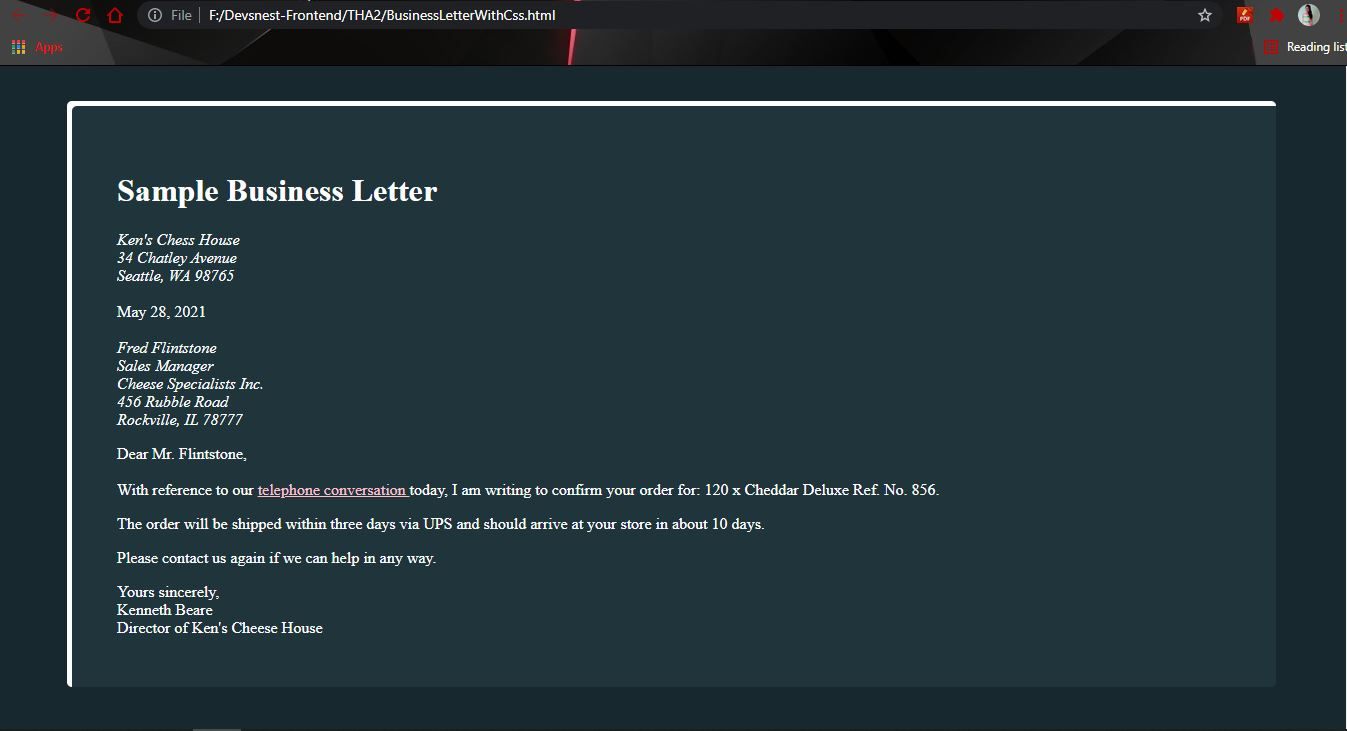
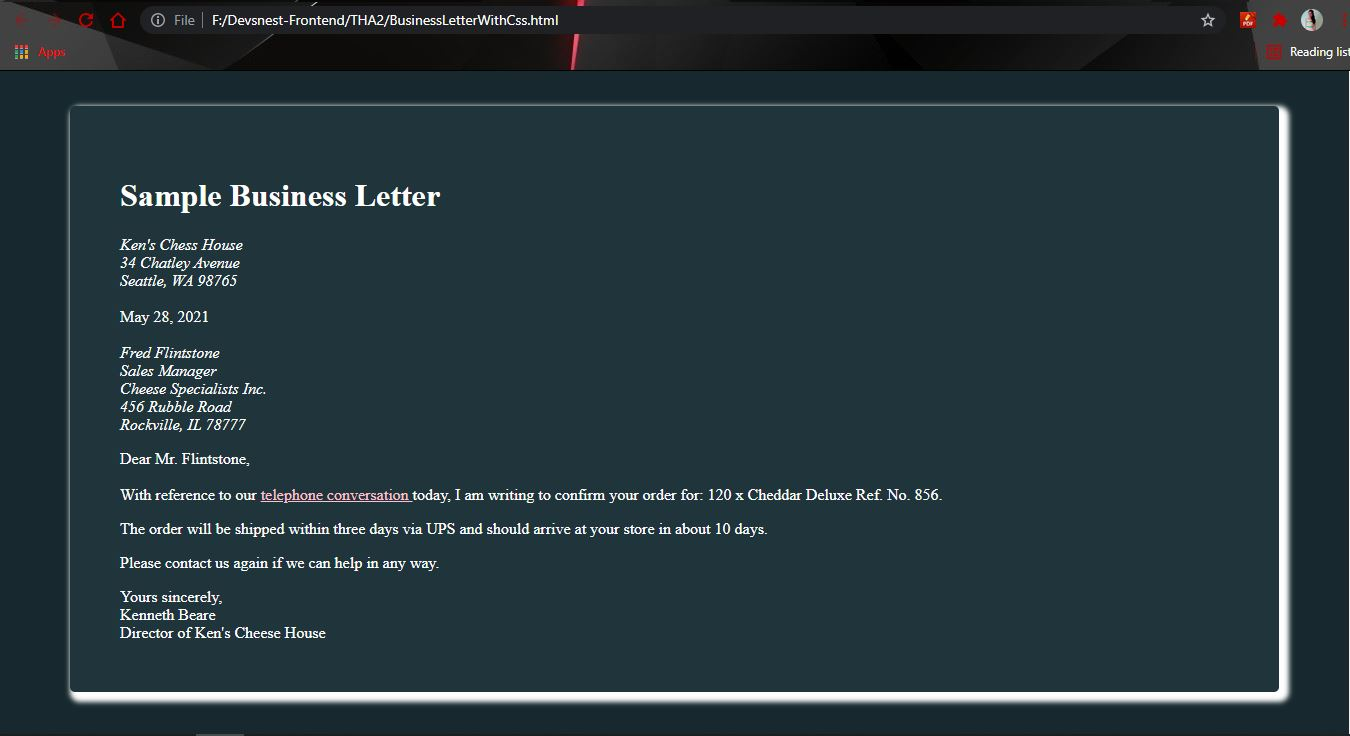
Commiting THA3

Changed region(s): [[0.0, 0.0, 1.0, 0.9631], [0.0, 0.0, 0.4365, 0.0903], [0.6236, 0.0, 0.7483, 0.0602]]

diff --git a/THA3/ResumeTemplate.html b/THA3/ResumeTemplate.html
@@ -1,0 +1,134 @@
+<!DOCTYPE html>
+<html lang="en">
+  <head>
+    <meta charset="UTF-8" />
+    <meta http-equiv="X-UA-Compatible" content="IE=edge" />
+    <meta name="viewport" content="width=device-width, initial-scale=1.0" />
+    <link rel="stylesheet" href="./style.css" />
+    <link href="https://fonts.googleapis.com/css2?family=IBM+Plex+Sans:wght@300&display=swap" rel="stylesheet"/>
+    <title>Resume</title>
+  </head>
+  <body>
+
+    <div class="resume">
+      <div class="resume-body">
+
+        <header>
+          <h1>PhantomOz</h1>
+          <p>SDE</p>
+        </header>
+
+        <div class="resume-detail">
+          <div class="left">
+            <div class="personal">
+              <h2>Personal Profile</h2>
+
+              <p>
+                Hi! I'm a high school senior with a knack for verbal
+                communication and public speaking.I'm looking for an internship
+                in the digital marketing industry.
+              </p>
+
+            </div>
+
+            <div class="achievements">
+
+              <h2>Honors & Achievements</h2>
+              <ul>
+                <li><b>&#8226; &nbsp;</b> Beechtown Honor Society Member</li>
+                <li><b>&#8226; &nbsp;</b> Borghilde High School Academic Honor Roll</li>
+                <li><b>&#8226; &nbsp;</b> Borghilde Youth Club Leader's Award</li>
+                <li><b>&#8226; &nbsp;</b> 1st Place Award in Public Speaking</li>
+              </ul>
+
+            </div>
+
+            <div class="contact">
+
+              <h2>Contact Details</h2>
+              <p>
+                Number:123-456-7890 Email:hello@reallygreatsite.com
+                Website:www.reallygreatsite.com Address:123 Anywhere St,Any
+                City, State, Country 12345
+              </p>
+            </div>
+
+            <div class="interests">
+
+              <h2>Personal Interests</h2>
+              <ul>
+                <li><b>&#8226; &nbsp;</b> Playing the Piano and Trombone</li>
+                <li><b>&#8226; &nbsp;</b> Charity Weekend Volunteer Work</li>
+                <li><b>&#8226; &nbsp;</b> Tutor for English, Math and Science</li>
+                <li><b>&#8226; &nbsp;</b> Travelling,Swimming,Hiking</li>
+                <li><b>&#8226; &nbsp;</b> Reading fiction Novels</li>
+              </ul>
+            </div>
+
+          </div>
+
+          <div class="divider"></div>
+          <div class="right">
+
+            <div class="experience">
+              <h2 class="heading">Work Experience</h2>
+              <div class="sub-columns">
+
+                <h2 class="title">Accounts Intern</h2>
+                <h3>Passive Digital Studio Inc. :2017</h3>
+
+                <p>
+                    <b>&#8226; &nbsp;</b> Worked closely with the accounts team in creating strategies,
+                  meeting, clients, and coordinating with the creating team. I
+                  also did clients presentations.
+                </p>
+
+              </div>
+
+              <div class="sub-columns">
+
+                <h2 class="title">Accounts Intern</h2>
+                <h3>Passive Digital Studio Inc. :2017</h3>
+                <p>
+                    <b>&#8226; &nbsp;</b> Worked closely with the accounts team in creating strategies,
+                  meeting, clients, and coordinating with the creating team. I
+                  also did clients presentations.
+                </p>
+
+              </div>
+            </div>
+
+            <div class="academic">
+
+              <h2 class="academic-title">Academic Background</h2>
+              <div class="sub-columns">
+
+                <h2 class="title">Accounts Intern</h2>
+                <h3>Passive Digital Studio Inc. :2017</h2>
+
+                <p>
+                    <b>&#8226; &nbsp;</b>  Worked closely with the accounts team in creating strategies,
+                  meeting, clients, and coordinating with the creating team. I
+                  also did clients presentations.
+                </p>
+
+              </div>
+              <div class="sub-columns">
+
+                <h2 class="title">Accounts Intern</h2>
+                <h3>Passive Digital Studio Inc. :2017</h2>
+
+                <p>
+                    <b>&#8226; &nbsp;</b> Worked closely with the accounts team in creating strategies,
+                  meeting, clients, and coordinating with the creating team. I
+                  also did clients presentations.
+                </p>
+
+              </div>
+            </div>
+          </div>
+        </div>
+      </div>
+    </div>
+  </body>
+</html>

diff --git a/THA3/style.css b/THA3/style.css
@@ -1,0 +1,85 @@
+* {
+    box-sizing: border-box;
+    margin: 0;
+    padding: 0;
+    
+  }
+
+  body {
+    background-color: rgb(32, 31, 31);
+    font-size: 0.80rem;
+  }
+  
+  .resume {
+    max-width: 600px;
+    margin: 50px auto;
+    border-radius: 2px;
+    background-color: white;
+    padding: 25px;
+    height: auto;
+    }
+
+  header {
+    position: absolute;
+    top: -20px;
+    left: 32%;
+     padding: 0 20px;
+    margin-bottom: 15px;
+    display: flex;
+    flex-direction: column;
+    justify-content: center;
+    align-items: center;
+    background: rgb(255, 255, 255);
+  }
+
+  .resume div  {
+    margin: 5px 0px;
+  }
+
+  .resume-body {
+    border: 3px solid #5b78a0;
+    position: relative;
+    padding: 25px;
+  }
+  
+  .resume h1,h2 {
+    color: #1f4c86;
+    font-weight: bold;
+  }
+
+  .resume p,li,h3 {
+    color: #3f6e92;
+  }
+
+  ul li {
+    list-style: none;
+  }
+
+  .resume-detail {
+    display: flex;
+    justify-content: space-around;
+    margin-top: 25px;
+  }
+
+  .sub-columns h2 {
+    font-size: 0.95rem;
+  }
+
+  .left {
+    width: 40%;
+  }
+  
+  .divider {
+    margin-top: 30px;
+    border-left: 1px solid #5b78a0;
+    border-width: 2px;
+  }
+  
+  .right {
+    width: 40%;
+    padding-left: 10px;
+  }
+
+  .section {
+    margin: 15px 0px;
+  }

diff --git a/THA2/BusinessLetterWithCss.html b/THA2/BusinessLetterWithCss.html
@@ -5,7 +5,7 @@
     <meta http-equiv="X-UA-Compatible" content="IE=edge" />
     <meta name="viewport" content="width=device-width, initial-scale=1.0" />
     <link rel="stylesheet" href="style.css">
-    <title>THA-1</title>
+    <title>THA-2</title>
   </head>
   <body>
 

diff --git a/THA2/style.css b/THA2/style.css
@@ -7,7 +7,7 @@ padding: 50px 50px 50px 50px;
 .container {
 text-align: left;
 background-color: rgb(32, 53, 59);
-box-shadow: 5px 5px inset;
+box-shadow: 5px 5px 5px 5px;
 border-radius: 5px;
 margin: 20px 20px 20px 20px;
 padding: 50px;
